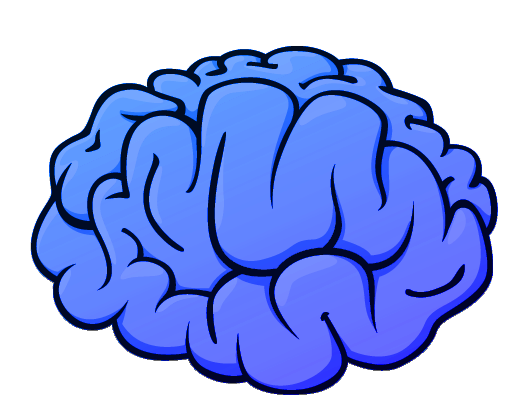
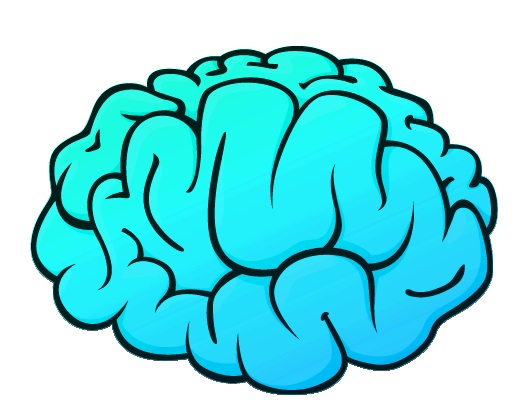
4.4.2

diff --git a/Quizz/platforms/android/assets/www/index.html b/Quizz/platforms/android/assets/www/index.html
@@ -8,41 +8,48 @@
 <script src="jquery-mobile/jquery.mobile-1.0.min.js" type="text/javascript"></script>
 </head> 
 <body>
-<script>	
+<!--<script>	
 	$(document).ready(function(e) {		
 		setInterval(function(){$('#cerebro').animate({width:"+=30%", marginLeft:"-=15%", marginTop:"-=15%"},1000).animate({width:"-=30%", marginLeft:"+=15%", marginTop:"+=15%"},1000)},10);
-	});
-	
-</script>
+	});	
+</script>-->
 <script>
-
 	
-	
-	var imagenes=new Array('img/0.png','img/1.png','img/2.png','img/3.png','img/4.png','img/5.png');
+	var imagenes=new Array('img/0.png','img/1.png','img/2.png','img/3.png','img/0-g.png','img/1-g.png','img/2-g.png','img/3-g.png');
 	var index;
 	var c=0;
-	
-    function rotarImagenes(){
+		
+    function rotarImagenes(){		
         index=Math.floor((Math.random()*imagenes.length)); 
         document.getElementById("imagen").src=imagenes[index];
     }
 	
-	onload=function(){		
-		rotarImagenes(); 
-		setInterval(rotarImagenes,10);												
+	function refreshPage(){
+		jQuery.mobile.changePage(window.location.href, {
+			allowSamePageTransition: true,
+			transition: 'none',
+			reloadPage: true
+		});
 	}
 	
-	function parar(){		
+	onload=function(){
+		refreshPage();
+		rotarImagenes(); 
+		setInterval(rotarImagenes,100);												
+	}	
+	
+	function parar(){
 	
 		var dCont=document.getElementById("contImg");
 		var dImg=document.getElementById("imagen");
 		dCont.removeChild(dImg);
 		$('#contImg').append('<img id="imagen2"/>');
-		$('#imagen2').attr("src", "img/"+index+".png");
-		setInterval(function(){$('#contImg').animate({marginLeft:"+=30px"},100).animate({marginLeft:"-=30px"},100)},10);
-		document.getElementById('btn2').setAttribute("href","#quiz");
-		document.getElementById('btn2').style.display='block';		
-	};
+		$('#imagen2').attr("src", ""+imagenes[index]);
+		//setInterval(function(){$('#contImg').animate({marginLeft:"+=30px"},100).animate({marginLeft:"-=30px"},100)},10);
+		
+		document.getElementById('btn2').setAttribute("href","#quiz");		
+		document.getElementById('btn2').style.display='block';
+	}
 	
 	var preguntas=new Array('pregunta 1','pregunta 2','pregunta 3','pregunta 4');
 	var soluciones=new Array();//este asociativo
@@ -62,33 +69,34 @@
 	var i=Math.floor((Math.random()*preguntas.length));
 	
 	function ok(e){
+		preguntas.splice(i,1);//primer numero indica a partir de que indice queremos borrar y el segundo cuantos indices queremos borrar
 		if(e.name==soluciones[""+preguntas[i]]){
-			alert("bien");
+			$('#resul').append('<h1 data-role="header">CORRECTO</h1>');
+			$('#resul').append('<a href="#juego" data-role="button">CONTINUAR</h1>');
+					
 		}else{
-			alert("mal");
+			$('#resul').append('<h1 data-role="header">FALSO</h1>');
+			$('#resul').append('<a href="#juego" data-role="button">CONTINUAR</h1>');
+			
 		}
 	}
 	
 	function add(){			
-		$('#quiz').append('<h1 data-role="header">'+preguntas[i]+'</h1>');
-		preguntas.splice(i,1);//primer numero indica a partir de que indice queremos borrar y el segundo cuantos indices queremos borrar
-		$('#quiz').append('<a onClick="ok(this)" id="1" data-role="button">'+opciones[""+preguntas[i]].split(",")[0]+'</a>');
+		$('#quiz').append('<h1 data-role="header">'+preguntas[i]+'</h1>');		
+		$('#quiz').append('<a onClick="ok(this)" href="#resul" id="1" data-role="button">'+opciones[""+preguntas[i]].split(",")[0]+'</a>');
 		$('#1').attr("name",""+opciones[""+preguntas[i]].split(",")[0]);		
-		$('#quiz').append('<a onClick="ok(this)" id="2" data-role="button">'+opciones[""+preguntas[i]].split(",")[1]+'</a>');
+		$('#quiz').append('<a onClick="ok(this)" href="#resul" id="2" data-role="button">'+opciones[""+preguntas[i]].split(",")[1]+'</a>');
 		$('#2').attr("name",""+opciones[""+preguntas[i]].split(",")[1]);
-		$('#quiz').append('<a onClick="ok(this)" id="3" data-role="button">'+opciones[""+preguntas[i]].split(",")[2]+'</a>');
+		$('#quiz').append('<a onClick="ok(this)" href="#resul" id="3" data-role="button">'+opciones[""+preguntas[i]].split(",")[2]+'</a>');
 		$('#3').attr("name",""+opciones[""+preguntas[i]].split(",")[2]);
 	}
-		
-		
-	
 	
 </script>
-<div data-role="page" id="inicio">
+<!--<div data-role="page" id="inicio">
 <div data-role="header" id="titulo"><img src="img/logo.jpg"/></div>
 	<div data-role="content" id="cerebro"><img id="imgC" src="img/cerebro.png"/></div>
-	<a id="btn" href="#juego" data-role="button">JUGAR</a>
-</div>
+	<a id="btn" href="#juego" onClick="play()" data-role="button">JUGAR</a>
+</div>-->
 
 <div data-role="page" id="juego">
 <div data-role="content" id="contImg" onClick="parar()"><img src="" id="imagen"></div>
@@ -96,6 +104,10 @@
 </div>
 
 <div data-role="page" id="quiz">
+</div>
+
+<div data-role="page" id="resul">
+
 </div>
 
 
